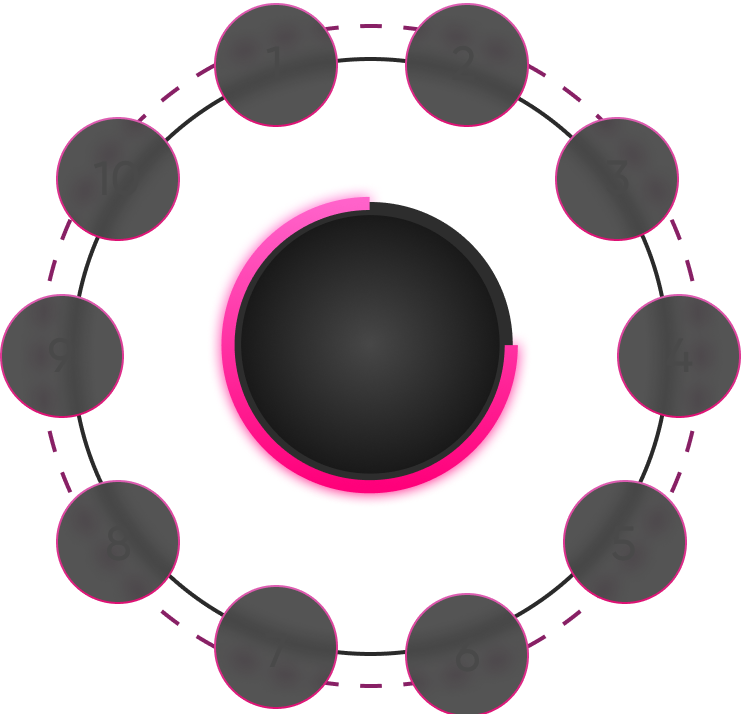
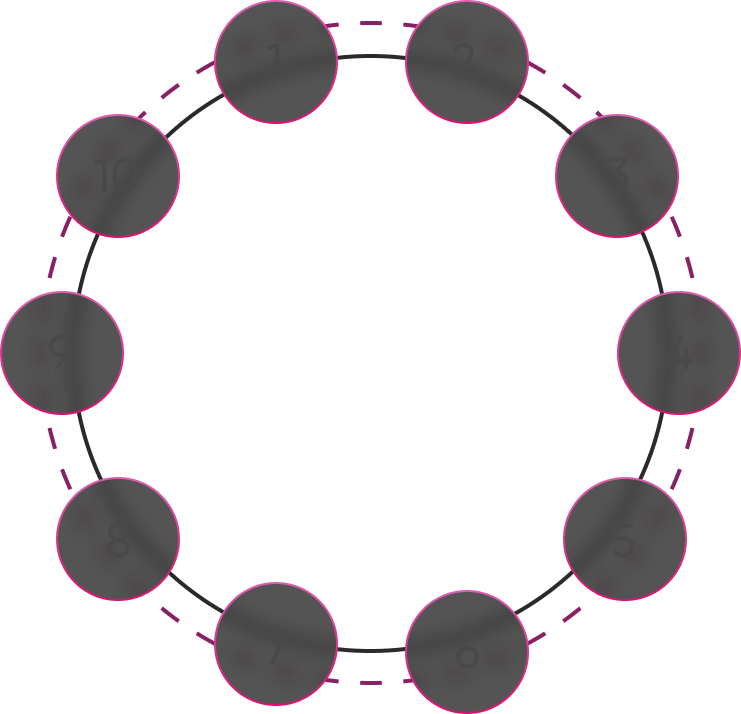
Add glow to upgrade

diff --git a/backend/core/core/static/js/upgrade.js b/backend/core/core/static/js/upgrade.js
@@ -211,61 +211,68 @@ async function makeUpgrade() {
 }
 
 async function animateResult(result) {
-    const start = Date.now();
+    document.getElementById('receive-item-glow').style.transform = "scale(1)";
+    document.getElementById('receive-item-glow').style.opacity = "1";
+    document.getElementById('receive-item-glow').style.animation = "1s ease-in-out 2s infinite glow-flickering, ease-in-out 2s infinite glow-rotate";
+    await sleep(4000);
 
-    document.getElementById('u-m-1').style.filter = 'brightness(250)';
-    document.getElementById('u-d-1').style.filter = 'brightness(250)';
-    document.getElementById('u-m-2').style.filter = 'brightness(250)';
-    document.getElementById('u-d-2').style.filter = 'brightness(250)';
-
-    let m = 100;
-    let c = 0;
-    let wChanged = false;
-    let randomYfactor1 = 0;
-    let randomYfactor2 = 0;
-
-    let maxFactor = 40;
+//    const start = Date.now();
+//
+//    document.getElementById('u-m-1').style.filter = 'brightness(250)';
+//    document.getElementById('u-d-1').style.filter = 'brightness(250)';
+//    document.getElementById('u-m-2').style.filter = 'brightness(250)';
+//    document.getElementById('u-d-2').style.filter = 'brightness(250)';
+//
+//    let m = 100;
+//    let c = 0;
+//    let wChanged = false;
+//    let randomYfactor1 = 0;
+//    let randomYfactor2 = 0;
+//
+//    let maxFactor = 40;
+//
+//    let item;
+//
+//    while ((Date.now() - start) < 3000) {
+//        await sleep(15);
+//
+//        let factor = randomIntFromInterval(Math.ceil(maxFactor/2), maxFactor);
+//
+//        maxFactor = 5 * Math.min((Date.now() - start) / 50, 8)
+//
+//        if (!wChanged) {
+//            randomYfactor1 = randomIntFromInterval(-maxFactor, maxFactor);
+//            randomYfactor2 = randomIntFromInterval(-maxFactor, maxFactor);
+//        } else {
+//            randomYfactor1 = 0;
+//            randomYfactor2 = 0;
+//        }
+//
+//        if (c > m) {
+//            document.getElementById('u-m-1').style.transform = `translateY(${-factor}px translateX(${randomYfactor1}px))`;
+//            document.getElementById('u-d-1').style.transform = `translateY(${-factor}px translateX(${randomYfactor1}px))`;
+//            document.getElementById('u-m-2').style.transform = `translateY(${-factor}px translateX(${randomYfactor2}px))`;
+//            document.getElementById('u-d-2').style.transform = `translateY(${-factor}px translateX(${randomYfactor2}px))`;
+//
+//            c -= factor;
+//        } else {
+//            document.getElementById('u-m-1').style.transform = `translateY(${factor}px) translateX(${randomYfactor2}px)`;
+//            document.getElementById('u-d-1').style.transform = `translateY(${factor}px) translateX(${randomYfactor2}px)`;
+//            document.getElementById('u-m-2').style.transform = `translateY(${factor}px) translateX(${randomYfactor1}px)`;
+//            document.getElementById('u-d-2').style.transform = `translateY(${factor}px) translateX(${randomYfactor1}px)`;
+//
+//            c += factor;
+//        }
+//
+//        wChanged = !wChanged;
+//    };
+//
+//    document.getElementById('u-m-1').style.opacity = `0`;
+//    document.getElementById('u-d-1').style.opacity = `0`;
+//    document.getElementById('u-m-2').style.opacity = `0`;
+//    document.getElementById('u-d-2').style.opacity = `0`;
 
     let item;
-
-    while ((Date.now() - start) < 3000) {
-        await sleep(15);
-
-        let factor = randomIntFromInterval(Math.ceil(maxFactor/2), maxFactor);
-
-        maxFactor = 5 * Math.min((Date.now() - start) / 50, 8)
-
-        if (!wChanged) {
-            randomYfactor1 = randomIntFromInterval(-maxFactor, maxFactor);
-            randomYfactor2 = randomIntFromInterval(-maxFactor, maxFactor);
-        } else {
-            randomYfactor1 = 0;
-            randomYfactor2 = 0;
-        }
-
-        if (c > m) {
-            document.getElementById('u-m-1').style.transform = `translateY(${-factor}px translateX(${randomYfactor1}px))`;
-            document.getElementById('u-d-1').style.transform = `translateY(${-factor}px translateX(${randomYfactor1}px))`;
-            document.getElementById('u-m-2').style.transform = `translateY(${-factor}px translateX(${randomYfactor2}px))`;
-            document.getElementById('u-d-2').style.transform = `translateY(${-factor}px translateX(${randomYfactor2}px))`;
-
-            c -= factor;
-        } else {
-            document.getElementById('u-m-1').style.transform = `translateY(${factor}px) translateX(${randomYfactor2}px)`;
-            document.getElementById('u-d-1').style.transform = `translateY(${factor}px) translateX(${randomYfactor2}px)`;
-            document.getElementById('u-m-2').style.transform = `translateY(${factor}px) translateX(${randomYfactor1}px)`;
-            document.getElementById('u-d-2').style.transform = `translateY(${factor}px) translateX(${randomYfactor1}px)`;
-
-            c += factor;
-        }
-
-        wChanged = !wChanged;
-    };
-
-    document.getElementById('u-m-1').style.opacity = `0`;
-    document.getElementById('u-d-1').style.opacity = `0`;
-    document.getElementById('u-m-2').style.opacity = `0`;
-    document.getElementById('u-d-2').style.opacity = `0`;
 
     if (result.success) {
         item = receiveItems.get(parseInt(selectedReceive.slice(2)));

diff --git a/backend/core/core/static/js/caseDrop.js b/backend/core/core/static/js/caseDrop.js
@@ -80,7 +80,7 @@ export async function getCase(id) {
         dropItemsPositions.set(element.case_item_id, c);
     });
 
-    dropItemsString.innerHTML += line + line + line + line + line + line + line;
+    dropItemsString.innerHTML += line + line + line + line + line + line + line + line + line;
 
     await dropCase();
 }
@@ -190,13 +190,18 @@ function animateRoulette(to, count) {
 
         const biasVal = gap + partWith + 1;
 
-        dropItemsString.style.marginLeft = `-${((biasVal * count) * 5) + ((to-3) * biasVal)}px`;
+        dropItemsString.style.marginLeft = `-${((biasVal * count) * 7) + ((to-3) * biasVal)}px`;
+
+        dropItemsString.style.transition = `filter 3s cubic-bezier(0.4, 0, 1, 1), margin 7s cubic-bezier(0.08, 0.09, 0.16, 0.9)`;
+        dropItemsString.style.filter = `blur(.5ch)`;
+
+        setTimeout(() => {dropItemsString.style.transition = `filter 4s cubic-bezier(0.4, 0, 1, 1), margin 7s cubic-bezier(0.08, 0.09, 0.16, 0.9)`;dropItemsString.style.filter = `blur(0ch)`}, 3000)
     } else {
         const partWith = 100 * vw * (331 / 960) + 5;
 
         const biasVal = gap + partWith;
 
-        dropItemsString.style.marginTop = `-${((biasVal * count) * 5) + ((to) * biasVal)}px`;
+        dropItemsString.style.marginTop = `-${((biasVal * count) * 7) + ((to) * biasVal)}px`;
     }
 }
 

diff --git a/backend/core/core/static/js/contract.js b/backend/core/core/static/js/contract.js
@@ -15,6 +15,10 @@ function gcd (a, b) {
     return (b == 0) ? a : gcd (b, a%b);
 }
 
+function sleep(ms) {
+    return new Promise(resolve => setTimeout(resolve, ms));
+}
+
 async function getItems() {
     const formdata = new FormData();
     const requestOptions = {
@@ -96,6 +100,20 @@ function unselectItem(id) {
     selected.delete(id);
 }
 
+async function animateContract() {
+    document.getElementById('cells-row-1').style = 'transform: translateY(31vh);gap: 0px;';
+
+    document.getElementById('cells-row-2').style = 'transform: translateY(16vh);gap: 0px;';
+
+    document.getElementById('cells-row-3').style = 'gap: 0px;';
+
+    document.getElementById('cells-row-4').style = 'transform: translateY(-21vh);gap: 0px;';
+
+    document.getElementById('cells-row-5').style = 'transform: translateY(-31vh);gap: 0px;';
+
+    await sleep(5000);
+}
+
 async function makeContract() {
     const myHeaders = new Headers();
 
@@ -119,6 +137,8 @@ async function makeContract() {
         `http://localhost/products/games/contract/`,
         requestOptions
     );
+
+    await animateContract();
 
     if (!response.ok) {
         alert("Error with operation, try again later");

diff --git a/backend/core/core/static/css/upgrade.css b/backend/core/core/static/css/upgrade.css
@@ -66,6 +66,52 @@
     width: 80%;
 }
 
+@keyframes glow-rotate {
+    0% {
+        rotate: 0deg;
+    }
+
+    50% {
+        rotate: 2.5deg;
+    }
+
+    100% {
+        rotate: 0deg;
+    }
+}
+
+@keyframes glow-flickering {
+    0% {
+        filter: brightness(1) hue-rotate(0deg);
+        transform: scale(1);
+    }
+
+    25% {
+        filter: brightness(.95) hue-rotate(90deg);
+        transform: scale(1.05);
+    }
+
+    50% {
+        filter: brightness(.9) hue-rotate(180deg);
+        transform: scale(1.1);
+    }
+    100% {
+        filter: brightness(1) hue-rotate(0deg);
+        transform: scale(1);
+    }
+}
+
+.receive-item-glow {
+    position: absolute;
+    height: 47vh;
+    rotate: 180deg;
+    z-index: 1000;
+    top: 17vh;
+    filter: brightness(1);
+    pointer-events: none;
+    transition: transform 3s ease, opacity 3s ease-in-out;
+}
+
 body {
     height: auto;
     background: url('../img/upgrade-bg.jpg');

diff --git a/backend/core/core/templates/templates/contract.html b/backend/core/core/templates/templates/contract.html
@@ -74,6 +74,7 @@ Contract | Jack Drop
         </div>
         <span class="contract-amount" id="contract-amount">0</span>
         <img style="height: 76vh;pointer-events: none;grid-row: 1;grid-column: 1;" src="{% static 'img/contract-circle.png' %}">
+        <img style="pointer-events: none;grid-row: 1;grid-column: 1;z-index: 9;" src="{% static 'img/contract-circle-inner.png' %}">
         <span class="prize-price-range">
             <span class="start" id="prst">0</span>
             <i class="gg-arrow-long-right"></i>

diff --git a/backend/core/core/templates/templates/upgrade.html b/backend/core/core/templates/templates/upgrade.html
@@ -30,6 +30,7 @@ Battles | Jack Drop
     </div>
     <div class="upgrade-item" id="second-u-i">
         <img class="upgrade-item-img-gun" id="u-d-2" src="{% static 'img/testgun.png' %}">
+        <img class="receive-item-glow" style="transform: scale(0);opacity: 0;" id="receive-item-glow" src="{% static 'img/glow.png' %}">
         <img src="{% static 'img/upgrade-item-bg.png' %}" class="upgrade-item-img">
         <span class="upgrade-items-desc">{% trans 'Right Part Desctiption' %}</span>
     </div>

diff --git a/backend/core/core/static/css/case-drop.css b/backend/core/core/static/css/case-drop.css
@@ -54,7 +54,7 @@
     width: max-content;
     padding-left: calc(100vw * calc(48 / var(--reference-display-w)));
 
-    transition: margin 7s cubic-bezier(0.46, 0.03, 0.52, 0.96);
+    transition: margin 7s cubic-bezier(0.02, 0.29, 0.31, 0.77);
 }
 
 .w-line {

diff --git a/backend/core/core/static/css/contract.css b/backend/core/core/static/css/contract.css
@@ -130,6 +130,9 @@
 
 .cells-row {
     display: flex;
+    z-index: 0;
+
+    transition: all 5s ease-in-out;
 }
 
 .cells-row span {

diff --git a/backend/products/products/games/repositories/api/users.py b/backend/products/products/games/repositories/api/users.py
@@ -22,6 +22,8 @@ class UsersApiRepository(BaseApiRepository):
             jwt=jwt_token
         )
 
+        print("WOWWW", data)
+
         return DetailedUserFundsSerializer(instance=data).data
 
     def get_balance(self, user_request: Request) -> float:
